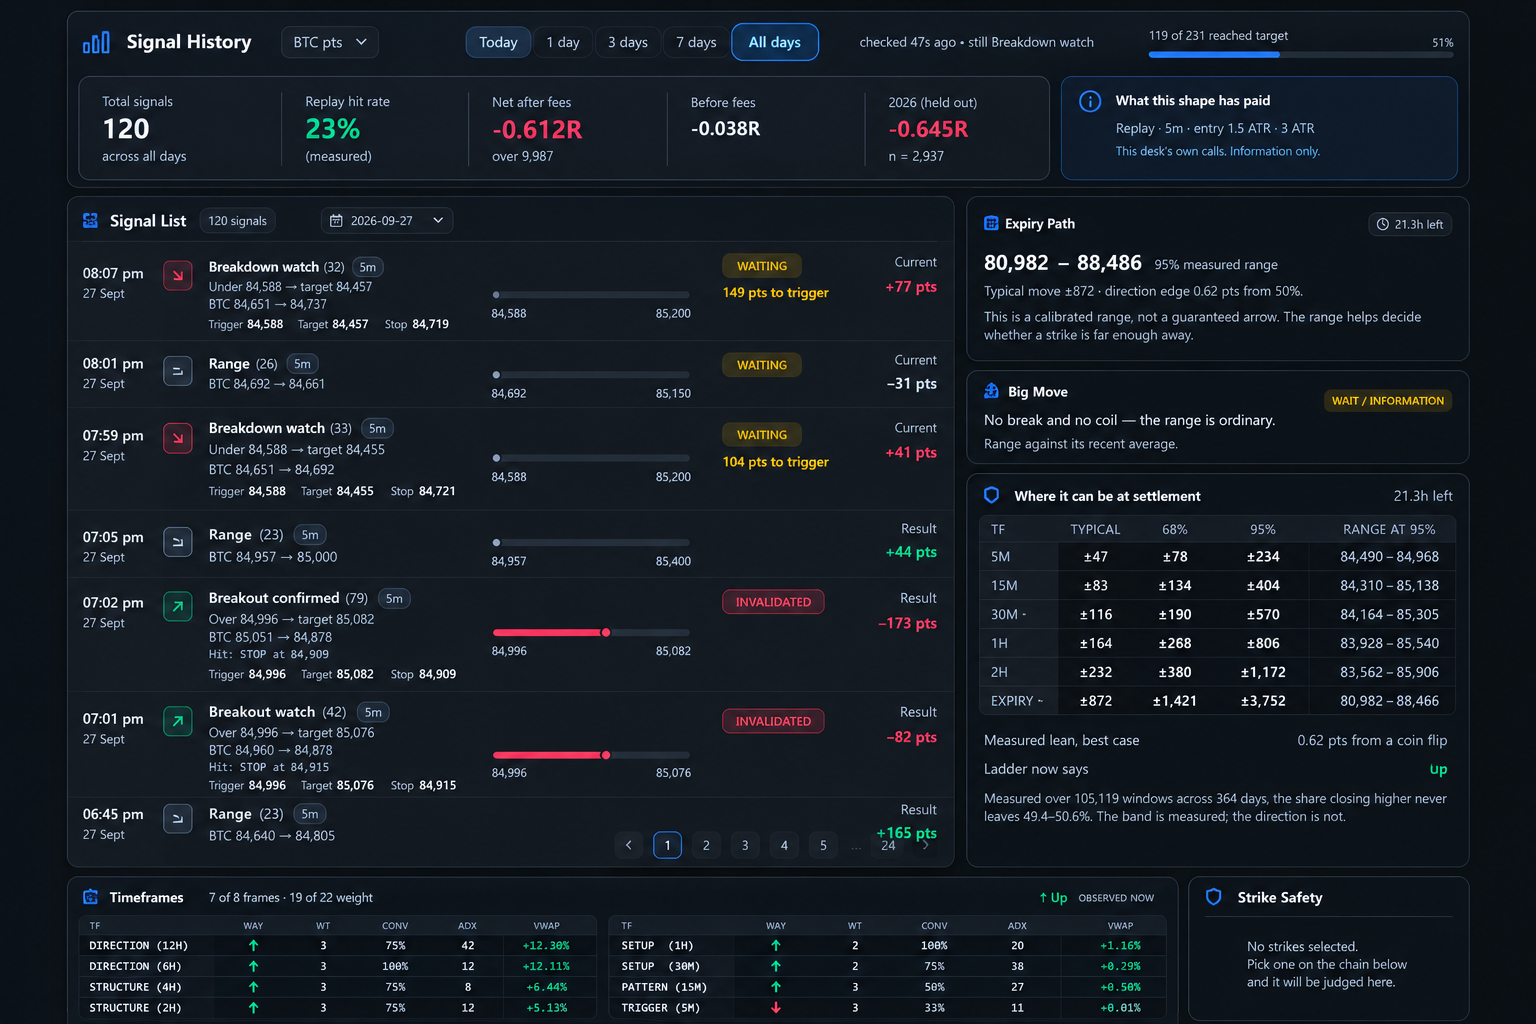
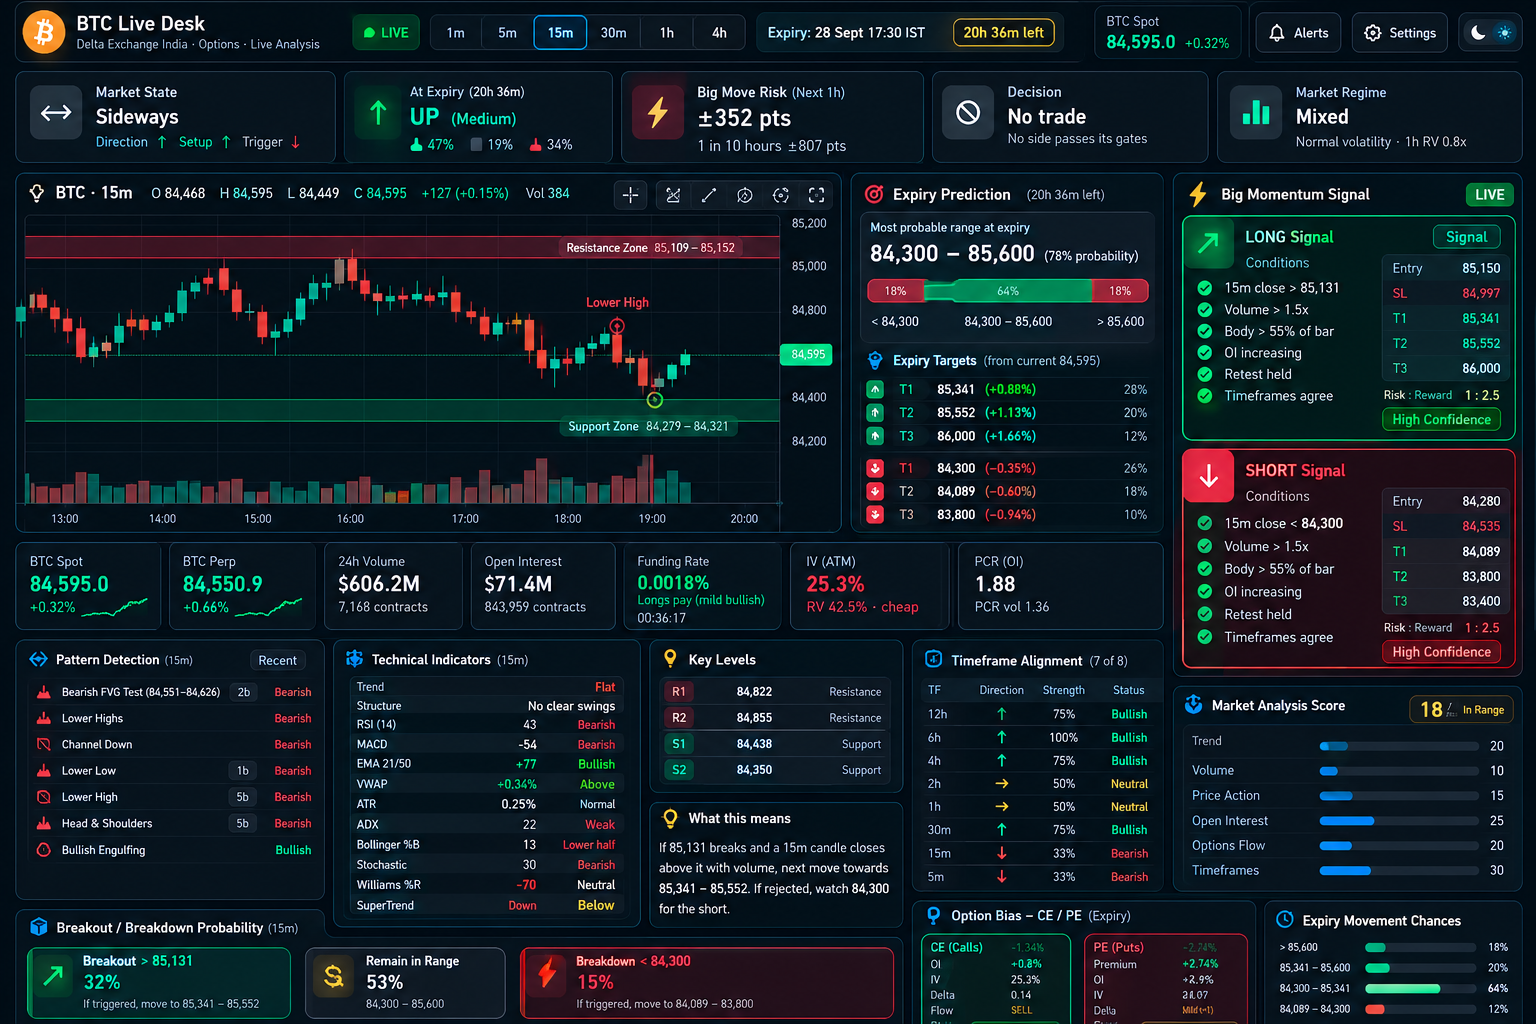
feat: add technical indicators and market structure metrics to momentum readings and study

Changed region(s): [[0.0, 0.0, 1.0, 1.0]]

diff --git a/app/server/src/backtest/momentum.ts b/app/server/src/backtest/momentum.ts
@@ -3,8 +3,10 @@ import {
   atr, ema, mean,
   awesome, bollinger, cci, choppiness, clv, cmf, efficiencyRatio, macd, mfi, obvSlope,
   relativeVolume, roc, stochastic, superTrend, trix, vortex, williamsR,
+  aroon, donchian, hma, realisedVol, zScore,
 } from '../domain/indicators.js';
-import { candlePatterns, structurePatterns } from '../domain/patterns.js';
+import { candlePatterns, marketStructure, structurePatterns } from '../domain/patterns.js';
+import { rsi, adx, vwapOf } from '../market/moves.js';
 import type { Side } from '../domain/market-state.js';
 import { confirmedBreaks, resample, TF_BARS_OF_5M, type Tf } from '../domain/break-risk.js';
 import { DEFAULT_LEVEL_MODE, levelUnder, type LevelMode } from '../domain/level-mode.js';
@@ -131,6 +133,31 @@ export type Readings = {
   structureBias: -1 | 0 | 1;
   /** How many patterns were named at all. A bar nobody can read is its own state. */
   patternCount: number;
+
+  /*
+   * The readings `docs/New.md` leans on hardest, added 27 Sep 2026.
+   *
+   * RSI, ADX and VWAP come from `market/moves.ts` — the same functions the live
+   * ladder reads, exported rather than rewritten. A second RSI written for the
+   * study would be a second RSI, and the point of measuring a filter is that the
+   * thing measured is the thing that runs.
+   */
+  rsi14: number | null;
+  adx14: number | null;
+  /** Price against this frame's VWAP, in percent. */
+  vwapDistPct: number | null;
+  /** Aroon oscillator: +100 is a fresh high, −100 a fresh low. */
+  aroon: number | null;
+  /** Where the close sits in the 20-bar Donchian channel, 0..1. */
+  donchianPos: number | null;
+  /** Annualised realised volatility over the recent bars, percent. */
+  realisedVol: number | null;
+  /** Hull moving average now less one bar ago: the fast trend's own slope. */
+  hmaSlope: number | null;
+  /** How unusual this close is against the last 50, in standard deviations. */
+  zScore: number | null;
+  /** Higher highs and higher lows (+1), lower highs and lower lows (−1), neither (0). */
+  structureWay: -1 | 0 | 1;
 };
 
 const NO_READINGS: Readings = {
@@ -138,6 +165,8 @@ const NO_READINGS: Readings = {
   williamsR: null, choppiness: null, efficiency: null, obvSlope: null, superTrend: 0,
   vortex: null, trix: null, awesome: null, cmf: null, relVolume: null, roc10: null,
   clv: null, emaStack: 0, candleBias: 0, structureBias: 0, patternCount: 0,
+  rsi14: null, adx14: null, vwapDistPct: null, aroon: null, donchianPos: null,
+  realisedVol: null, hmaSlope: null, zScore: null, structureWay: 0,
 };
 
 /** Fold a list of patterns into one signed bias: mixed cancels to 0. */
@@ -185,6 +214,35 @@ export function readingsAt(bars: readonly Candle[], level: { resistance: number 
     candleBias: biasOf(candlePatterns(bars)),
     structureBias: biasOf(structurePatterns({ bars, level, atr: a })),
     patternCount: candlePatterns(bars).length + structurePatterns({ bars, level, atr: a }).length,
+
+    rsi14: rsi(closes),
+    adx14: adx([...bars]),
+    vwapDistPct: (() => {
+      const v = vwapOf([...bars]);
+      return v === null || !(v > 0) ? null : ((last.close - v) / v) * 100;
+    })(),
+    aroon: aroon(bars),
+    donchianPos: (() => {
+      // `donchian` gives the channel's width; the position wants both edges.
+      const win = bars.slice(-20);
+      if (win.length < 20) return null;
+      const hi = Math.max(...win.map((b) => b.high));
+      const lo = Math.min(...win.map((b) => b.low));
+      return hi === lo ? null : (last.close - lo) / (hi - lo);
+    })(),
+    realisedVol: realisedVol(closes, 105_120, 30),
+    hmaSlope: (() => {
+      const now = hma(closes);
+      const before = hma(closes.slice(0, -1));
+      return now === null || before === null ? null : now - before;
+    })(),
+    zScore: zScore(closes.slice(-50), last.close),
+    structureWay: (() => {
+      const ms = marketStructure({ bars, atr: a });
+      const up = ms.filter((x) => x.bias === 'BULLISH').length;
+      const down = ms.filter((x) => x.bias === 'BEARISH').length;
+      return up > down ? 1 : down > up ? -1 : 0;
+    })(),
   };
 }
 

diff --git a/app/server/test/backtest/readings.test.ts b/app/server/test/backtest/readings.test.ts
@@ -56,6 +56,8 @@ describe('a reading that cannot be taken is null, not neutral', () => {
     const nullable: (keyof Readings)[] = [
       'macdHist', 'percentB', 'cci', 'mfi', 'stoch', 'williamsR', 'choppiness',
       'efficiency', 'obvSlope', 'vortex', 'trix', 'awesome', 'cmf', 'relVolume', 'roc10',
+      // Added 27 Sep 2026 — every one of these must obey the same rule.
+      'rsi14', 'adx14', 'vwapDistPct', 'aroon', 'donchianPos', 'realisedVol', 'hmaSlope', 'zScore',
     ];
     for (const k of nullable) assert.equal(r[k], null, `${k} guessed a value it could not read`);
   });
@@ -66,12 +68,43 @@ describe('a reading that cannot be taken is null, not neutral', () => {
     assert.equal(r.emaStack, 0);
     assert.equal(r.candleBias, 0);
     assert.equal(r.structureBias, 0);
+    assert.equal(r.structureWay, 0);
+  });
+
+  test('[critical] every field of Readings is accounted for — a new one cannot slip in unchecked', () => {
+    const full = readingsAt(bars(200, wavy), { resistance: null, support: null });
+    const thin = readingsAt(bars(10, wavy), { resistance: null, support: null });
+    for (const k of Object.keys(full) as (keyof Readings)[]) {
+      // Each reading is either nullable (null when unreadable) or a signed
+      // 0/±1. Anything else would be a reading that guesses.
+      const v = thin[k];
+      assert.ok(
+        v === null || v === 0 || typeof v === 'number',
+        `${k} produced ${String(v)} on too few bars`,
+      );
+    }
   });
 });
 
 describe('the readings themselves', () => {
   const b = bars(200, wavy);
   const r = readingsAt(b, levelUnder(b, 'rolling'));
+
+  test('[critical] the new bounded readings stay inside their bounds too', () => {
+    if (r.rsi14 !== null) assert.ok(r.rsi14 >= 0 && r.rsi14 <= 100);
+    if (r.adx14 !== null) assert.ok(r.adx14 >= 0 && r.adx14 <= 100);
+    if (r.aroon !== null) assert.ok(r.aroon >= -100 && r.aroon <= 100);
+    if (r.donchianPos !== null) assert.ok(r.donchianPos >= 0 && r.donchianPos <= 1);
+    if (r.realisedVol !== null) assert.ok(r.realisedVol >= 0);
+    assert.ok([-1, 0, 1].includes(r.structureWay));
+  });
+
+  test('[critical] RSI is the one the live ladder reads, not a second implementation', async () => {
+    // Same function, same bars, same number — asserted rather than assumed.
+    const { rsi } = await import('../../src/market/moves.js');
+    const closes = b.map((x) => x.close);
+    assert.equal(r.rsi14, rsi(closes));
+  });
 
   test('bounded readings stay inside their bounds', () => {
     if (r.stoch !== null) assert.ok(r.stoch >= 0 && r.stoch <= 100);

diff --git a/app/server/src/backtest/momentum-study.ts b/app/server/src/backtest/momentum-study.ts
@@ -116,6 +116,32 @@ const READING_FILTERS: Filter[] = (() => {
   banded('Relative volume', (s) => i(s).relVolume, 0.8, 1.5);
   banded('Band width', (s) => i(s).bandWidth, 0.15, 0.5);
 
+  // The readings New.md leans on hardest, added 27 Sep 2026.
+  signed('Aroon', (s) => i(s).aroon, 30);
+  signed('HMA slope', (s) => i(s).hmaSlope);
+  signed('Market structure', (s) => i(s).structureWay);
+  signed('VWAP side', (s) => i(s).vwapDistPct, 0.1);
+  signed('Z-score(50)', (s) => i(s).zScore, 1);
+
+  banded('RSI(14)', (s) => i(s).rsi14, 35, 65);
+  banded('ADX(14)', (s) => i(s).adx14, 20, 30);
+  banded('Donchian position', (s) => i(s).donchianPos, 0.2, 0.8);
+  banded('Realised vol', (s) => i(s).realisedVol, 30, 70);
+
+  /*
+   * RSI with the call is not the same question as RSI high: a breakdown into an
+   * oversold RSI is a late entry, a breakout into an overbought one is a strong
+   * one, and a band alone cannot tell them apart.
+   */
+  out.push({
+    name: 'RSI momentum with the call',
+    ok: (s) => { const v = i(s).rsi14; return v !== null && (s.side === 'UP' ? v > 55 : v < 45); },
+  });
+  out.push({
+    name: 'RSI momentum against the call',
+    ok: (s) => { const v = i(s).rsi14; return v !== null && (s.side === 'UP' ? v < 45 : v > 55); },
+  });
+
   out.push({ name: 'Close at bar extreme (|CLV| > 0.6)', ok: (s) => { const v = i(s).clv; return v !== null && Math.abs(v) > 0.6; } });
   out.push({ name: 'No pattern named', ok: (s) => i(s).patternCount === 0 });
   out.push({ name: 'Three or more patterns named', ok: (s) => i(s).patternCount >= 3 });

diff --git a/app/server/src/market/moves.ts b/app/server/src/market/moves.ts
@@ -90,7 +90,13 @@ function ema(values: number[], period: number): number | null {
   return e;
 }
 
-function rsi(values: number[], period = 14): number | null {
+/**
+ * Wilder's RSI. Exported since 27 Sep 2026 so the filter sweep reads the same
+ * RSI the live ladder does — a second implementation written for the study
+ * would be a second RSI, and the point of measuring a filter is that the thing
+ * measured is the thing that runs.
+ */
+export function rsi(values: number[], period = 14): number | null {
   if (values.length < period + 1) return null;
   let gain = 0;
   let loss = 0;
@@ -160,7 +166,7 @@ export type TimeframeRead = {
  * in a market going nowhere is agreement about noise, and the score should read
  * it as less than the same agreement in a market that is actually moving.
  */
-function adx(bars: Candle[], period = 14): number | null {
+export function adx(bars: Candle[], period = 14): number | null {
   if (bars.length < period * 2 + 1) return null;
   const tr: number[] = [];
   const plus: number[] = [];
@@ -211,7 +217,7 @@ function adx(bars: Candle[], period = 14): number | null {
  * weighted by that bar's volume, which is the standard definition and the one
  * every other screen will agree with.
  */
-function vwapOf(bars: Candle[]): number | null {
+export function vwapOf(bars: Candle[]): number | null {
   let pv = 0;
   let v = 0;
   for (const b of bars) {
